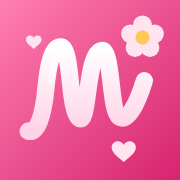
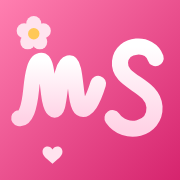
Ícone com M e S (Mavie Skin)
Claude-Session: https://claude.ai/code/session_01Jf1jNJdkTk3N6YZyyR6Hu3

diff --git a/index.html b/index.html
@@ -9,7 +9,7 @@
 <link rel="icon" type="image/png" href="icon-192.png">
 <link rel="apple-touch-icon" href="apple-touch-icon.png">
 <style>:root{color-scheme:light}html,body{margin:0}body{font-family:system-ui,sans-serif}[hidden]{display:none!important}img{max-width:100%}</style>
-<script>window.MM_VER="1794254329";</script>
+<script>window.MM_VER="1794254492";</script>
 <script src="supabase.js"></script>
 <script>window.sb=supabase.createClient("https://tobdkptlewiwemafphyf.supabase.co","eyJhbGciOiJIUzI1NiIsInR5cCI6IkpXVCJ9.eyJpc3MiOiJzdXBhYmFzZSIsInJlZiI6InRvYmRrcHRsZXdpd2VtYWZwaHlmIiwicm9sZSI6ImFub24iLCJpYXQiOjE3OTQxNDc1NTYsImV4cCI6MjEwOTcyMzU1Nn0.du1wM-BLPDdWwL1jofBVwTh7lJbzHz2nEXdf1Gl1BJo",{auth:{persistSession:true,autoRefreshToken:true,detectSessionInUrl:true}});</script>
 </head><body>
@@ -452,7 +452,7 @@ nav button.fab[aria-current="page"],:root:not([data-tema=suave]) nav button.fab[
 
 <div class="app">
   <header>
-    <div class="brand"><svg class="logo" viewBox="0 0 48 48" aria-hidden="true"><defs><linearGradient id="lgm" x1="0" y1="0" x2="1" y2="1"><stop offset="0" stop-color="#FF7FB0"/><stop offset="1" stop-color="#D6246E"/></linearGradient><linearGradient id="lgw" x1="0" y1="0" x2="0" y2="1"><stop offset="0" stop-color="#fff"/><stop offset="1" stop-color="#FFD3E6"/></linearGradient></defs><rect width="48" height="48" rx="15" fill="url(#lgm)"/><g fill="none" stroke="url(#lgw)" stroke-linecap="round" stroke-linejoin="round"><path stroke-width="4.6" d="M7.5 35 C10 35.5 11.5 31 12.2 24 C12.8 17.5 13.8 12.5 16.2 12.5 C19.2 12.5 18.2 29 21 31.5 C23.8 34 22.8 14.5 27 13.5 C30 12.8 29.2 29.5 31.8 31.2 C34 32.6 36.5 28 38.5 21.5"/><path stroke-width="1.4" stroke="#fff" stroke-opacity=".55" d="M13.5 22 C14 17 14.8 14.5 16 14.5"/></g><g transform="translate(38 10)"><g fill="#FFE3EE"><circle cx="0" cy="-3.4" r="2.5"/><circle cx="3.2" cy="-1" r="2.5"/><circle cx="2" cy="2.7" r="2.5"/><circle cx="-2" cy="2.7" r="2.5"/><circle cx="-3.2" cy="-1" r="2.5"/></g><circle r="1.9" fill="#FFC857"/></g><path transform="translate(33 40) scale(.85)" fill="#FFE3EE" d="M0 -1.6c-.9-1.9-3.8-1.4-3.8.8 0 1.7 2.1 3 3.8 4.6 1.7-1.6 3.8-2.9 3.8-4.6 0-2.2-2.9-2.7-3.8-.8z"/><path transform="translate(9 11) scale(.55)" fill="#FFE3EE" d="M0 -1.6c-.9-1.9-3.8-1.4-3.8.8 0 1.7 2.1 3 3.8 4.6 1.7-1.6 3.8-2.9 3.8-4.6 0-2.2-2.9-2.7-3.8-.8z"/></svg><span class="wm">Mavie Skin</span></div>
+    <div class="brand"><svg class="logo" viewBox="0 0 48 48" aria-hidden="true"><defs><linearGradient id="lgm" x1="0" y1="0" x2="1" y2="1"><stop offset="0" stop-color="#FF7FB0"/><stop offset="1" stop-color="#D6246E"/></linearGradient><linearGradient id="lgw" x1="0" y1="0" x2="0" y2="1"><stop offset="0" stop-color="#fff"/><stop offset="1" stop-color="#FFD3E6"/></linearGradient></defs><rect width="48" height="48" rx="15" fill="url(#lgm)"/><g fill="none" stroke="url(#lgw)" stroke-linecap="round" stroke-linejoin="round"><path transform="translate(0 7.7) scale(.68)" stroke-width="6.2" d="M7.5 35 C10 35.5 11.5 31 12.2 24 C12.8 17.5 13.8 12.5 16.2 12.5 C19.2 12.5 18.2 29 21 31.5 C23.8 34 22.8 14.5 27 13.5 C30 12.8 29.2 29.5 31.8 31.2 C34 32.6 36.5 28 38.5 21.5"/><path stroke-width="4.3" d="M41.5 15.5 C40 11 32.5 11.5 32 16.5 C31.5 22 40.8 22.5 41.2 28.5 C41.5 34.5 33.5 36.5 30 31.5"/></g><g transform="translate(9 9) scale(.8)"><g fill="#FFE3EE"><circle cx="0" cy="-3.4" r="2.5"/><circle cx="3.2" cy="-1" r="2.5"/><circle cx="2" cy="2.7" r="2.5"/><circle cx="-2" cy="2.7" r="2.5"/><circle cx="-3.2" cy="-1" r="2.5"/></g><circle r="1.9" fill="#FFC857"/></g><path transform="translate(14 41) scale(.7)" fill="#FFE3EE" d="M0 -1.6c-.9-1.9-3.8-1.4-3.8.8 0 1.7 2.1 3 3.8 4.6 1.7-1.6 3.8-2.9 3.8-4.6 0-2.2-2.9-2.7-3.8-.8z"/></svg><span class="wm">Mavie Skin</span></div>
     <div class="tag" id="tag"></div>
   </header>
   <div id="ages" hidden></div>
@@ -515,7 +515,7 @@ const IC={
 };
 const ic=(n,s=20)=>`<svg class="ic" width="${s}" height="${s}" viewBox="0 0 24 24" aria-hidden="true">${IC[n]}</svg>`;
 const ICONS={hoje:ic('home',22),pele:ic('face',22),rotina:ic('routine',22),produtos:ic('bottle',22),escanear:ic('scan',22),mais:ic('more',22)};
-const LOGO=`<svg class="logo" viewBox="0 0 48 48" aria-hidden="true"><defs><linearGradient id="lgm2" x1="0" y1="0" x2="1" y2="1"><stop offset="0" stop-color="#FF7FB0"/><stop offset="1" stop-color="#D6246E"/></linearGradient><linearGradient id="lgw2" x1="0" y1="0" x2="0" y2="1"><stop offset="0" stop-color="#fff"/><stop offset="1" stop-color="#FFD3E6"/></linearGradient></defs><rect width="48" height="48" rx="15" fill="url(#lgm2)"/><g fill="none" stroke="url(#lgw2)" stroke-linecap="round" stroke-linejoin="round"><path stroke-width="4.6" d="M7.5 35 C10 35.5 11.5 31 12.2 24 C12.8 17.5 13.8 12.5 16.2 12.5 C19.2 12.5 18.2 29 21 31.5 C23.8 34 22.8 14.5 27 13.5 C30 12.8 29.2 29.5 31.8 31.2 C34 32.6 36.5 28 38.5 21.5"/><path stroke-width="1.4" stroke="#fff" stroke-opacity=".55" d="M13.5 22 C14 17 14.8 14.5 16 14.5"/></g><g transform="translate(38 10)"><g fill="#FFE3EE"><circle cx="0" cy="-3.4" r="2.5"/><circle cx="3.2" cy="-1" r="2.5"/><circle cx="2" cy="2.7" r="2.5"/><circle cx="-2" cy="2.7" r="2.5"/><circle cx="-3.2" cy="-1" r="2.5"/></g><circle r="1.9" fill="#FFC857"/></g><path transform="translate(33 40) scale(.85)" fill="#FFE3EE" d="M0 -1.6c-.9-1.9-3.8-1.4-3.8.8 0 1.7 2.1 3 3.8 4.6 1.7-1.6 3.8-2.9 3.8-4.6 0-2.2-2.9-2.7-3.8-.8z"/><path transform="translate(9 11) scale(.55)" fill="#FFE3EE" d="M0 -1.6c-.9-1.9-3.8-1.4-3.8.8 0 1.7 2.1 3 3.8 4.6 1.7-1.6 3.8-2.9 3.8-4.6 0-2.2-2.9-2.7-3.8-.8z"/></svg>`;
+const LOGO=`<svg class="logo" viewBox="0 0 48 48" aria-hidden="true"><defs><linearGradient id="lgm2" x1="0" y1="0" x2="1" y2="1"><stop offset="0" stop-color="#FF7FB0"/><stop offset="1" stop-color="#D6246E"/></linearGradient><linearGradient id="lgw2" x1="0" y1="0" x2="0" y2="1"><stop offset="0" stop-color="#fff"/><stop offset="1" stop-color="#FFD3E6"/></linearGradient></defs><rect width="48" height="48" rx="15" fill="url(#lgm2)"/><g fill="none" stroke="url(#lgw2)" stroke-linecap="round" stroke-linejoin="round"><path transform="translate(0 7.7) scale(.68)" stroke-width="6.2" d="M7.5 35 C10 35.5 11.5 31 12.2 24 C12.8 17.5 13.8 12.5 16.2 12.5 C19.2 12.5 18.2 29 21 31.5 C23.8 34 22.8 14.5 27 13.5 C30 12.8 29.2 29.5 31.8 31.2 C34 32.6 36.5 28 38.5 21.5"/><path stroke-width="4.3" d="M41.5 15.5 C40 11 32.5 11.5 32 16.5 C31.5 22 40.8 22.5 41.2 28.5 C41.5 34.5 33.5 36.5 30 31.5"/></g><g transform="translate(9 9) scale(.8)"><g fill="#FFE3EE"><circle cx="0" cy="-3.4" r="2.5"/><circle cx="3.2" cy="-1" r="2.5"/><circle cx="2" cy="2.7" r="2.5"/><circle cx="-2" cy="2.7" r="2.5"/><circle cx="-3.2" cy="-1" r="2.5"/></g><circle r="1.9" fill="#FFC857"/></g><path transform="translate(14 41) scale(.7)" fill="#FFE3EE" d="M0 -1.6c-.9-1.9-3.8-1.4-3.8.8 0 1.7 2.1 3 3.8 4.6 1.7-1.6 3.8-2.9 3.8-4.6 0-2.2-2.9-2.7-3.8-.8z"/></svg>`;
 const TABS=[['hoje','Hoje'],['pele','Pele'],['escanear','Escanear'],['rotina','Rotina'],['produtos','Produtos'],['mais','Mais']];
 const AGES=[['20','Até 29 anos'],['30','30 a 39 anos'],['40','40 a 49 anos'],['50','50 anos ou mais']];
 const TIERS=[['econ','Econômico'],['mid','Intermediário'],['prem','Premium']];
